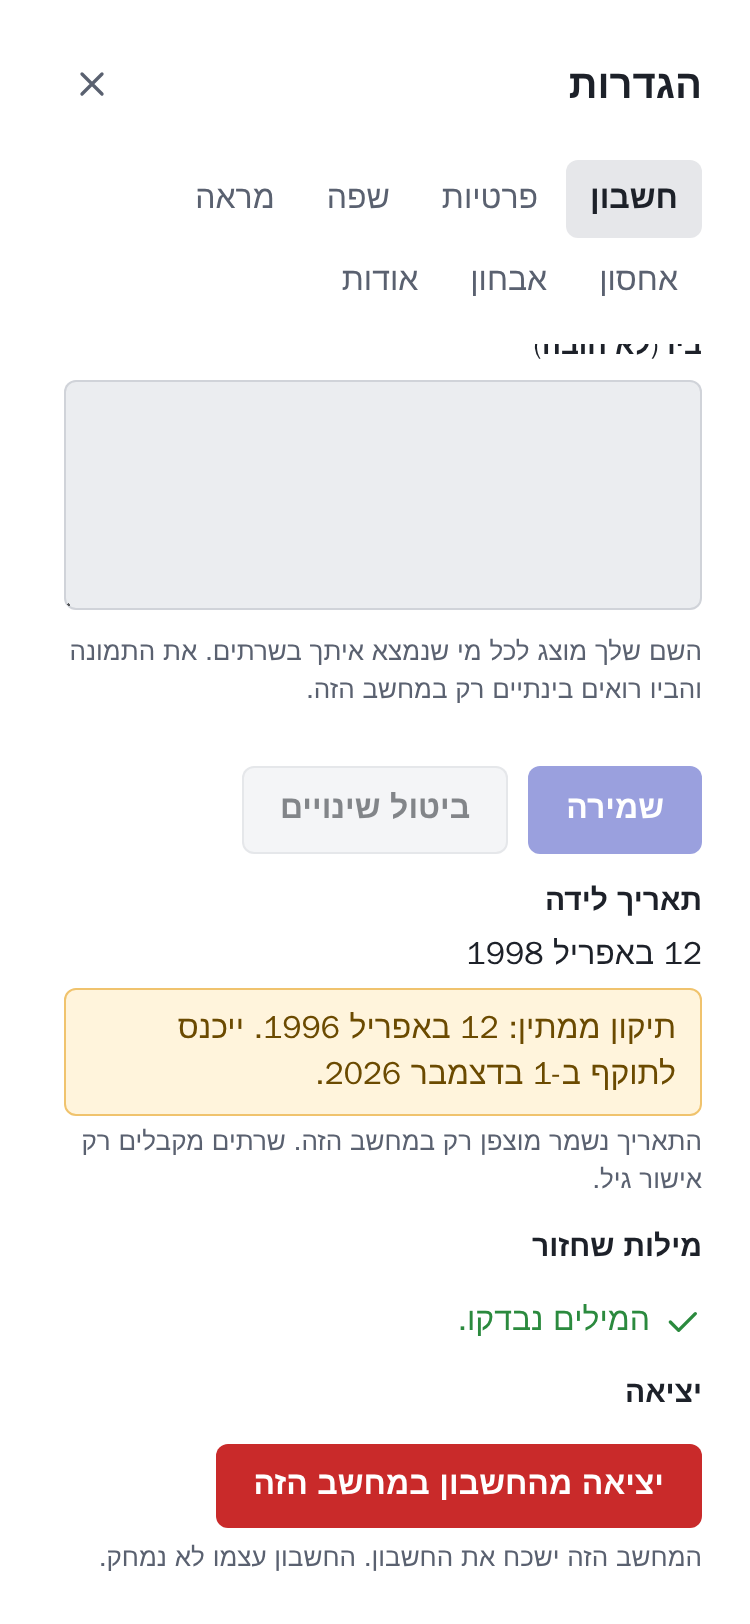
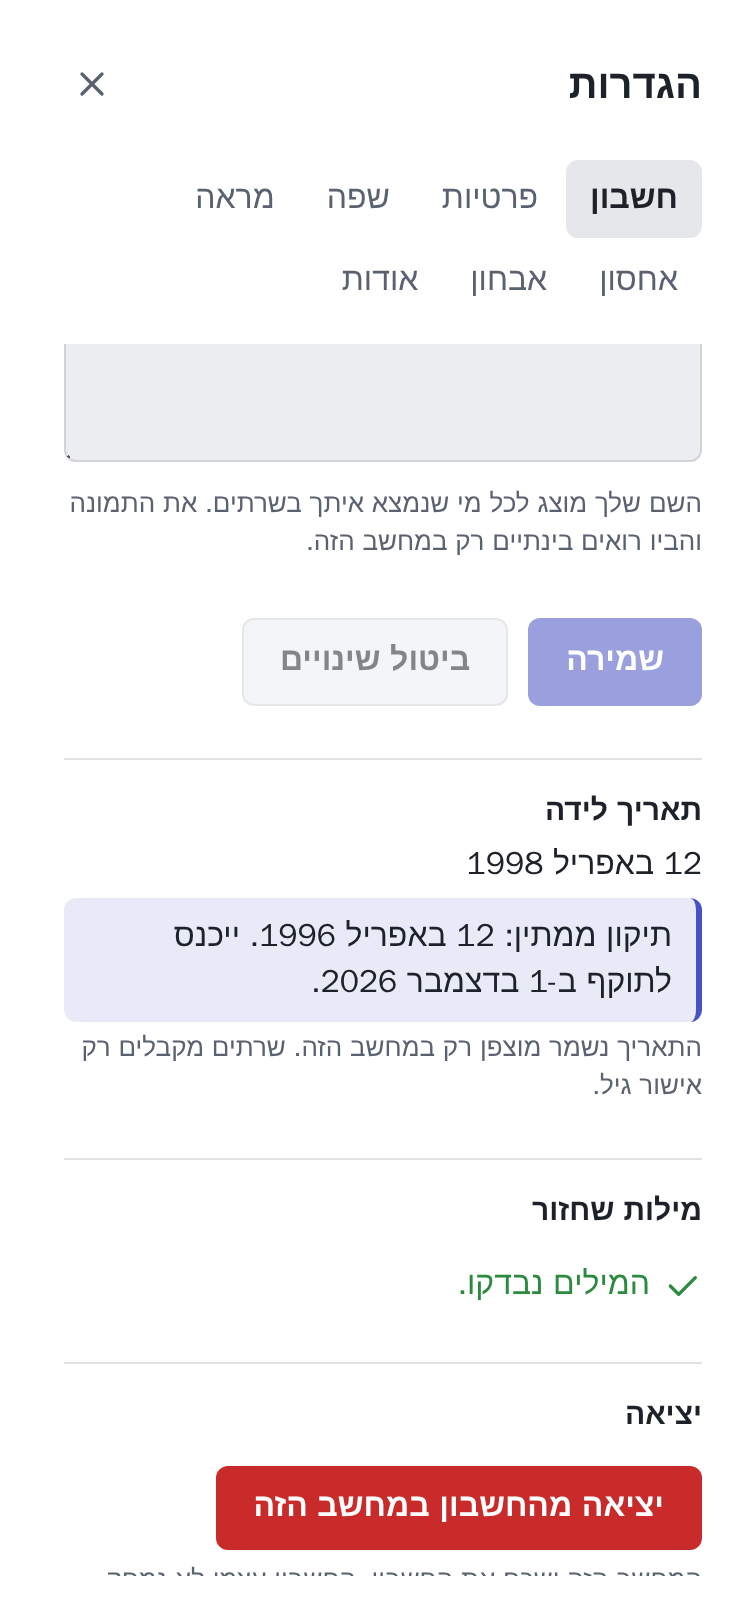
ui: Account sections under dividers; the pending birth-date box is info, not a warning (UX on #312)

diff --git a/ui/src/styles/app.css b/ui/src/styles/app.css
@@ -2811,10 +2811,20 @@ input.switch:disabled {
   margin: 0;
 }
 
+/* Information, not a warning (UX on #312): the accent tint with a start bar. */
 .dob-pending {
   padding: 0.5rem 0.75rem;
   border-radius: var(--radius-s);
-  background: var(--warning-bg);
-  border: 1px solid var(--warning-border);
-  color: var(--warning-text);
+  background: var(--accent-soft);
+  border-inline-start: 3px solid var(--accent);
+  color: var(--text);
+}
+
+/* Account: each part after the profile form starts under a divider, so the
+   date of birth doesn't read as part of the form (UX on #312). */
+.account-sections > .dob-section,
+.account-sections > h4 {
+  margin-block-start: 0.75rem;
+  padding-block-start: 1rem;
+  border-block-start: 1px solid var(--border);
 }

diff --git a/ui/src/screens/settings/SettingsScreen.tsx b/ui/src/screens/settings/SettingsScreen.tsx
@@ -130,7 +130,7 @@ function AccountSection({
   const store = useAppStore();
   const identity = useStore(store, (s) => s.identity)!;
   return (
-    <div className="stack">
+    <div className="stack account-sections">
       <ProfileEditor ref={editor} onDirtyChange={onDirtyChange} />
       <BirthDateSection />
       <h4>
